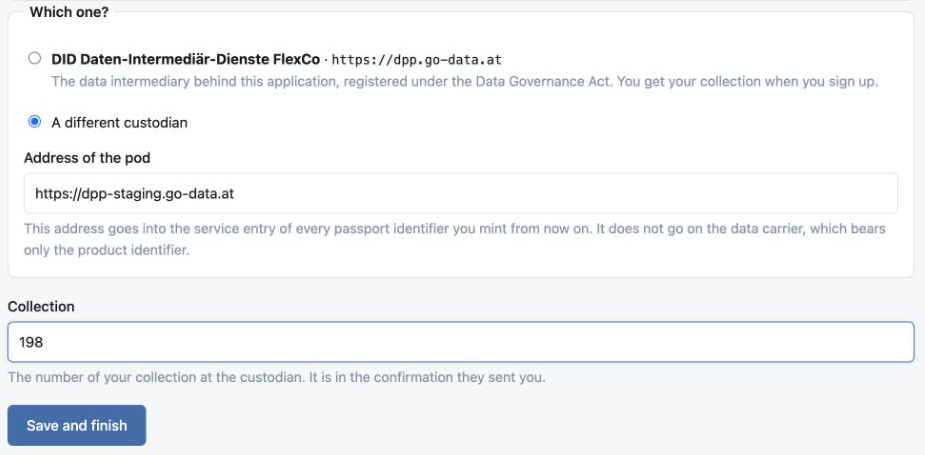
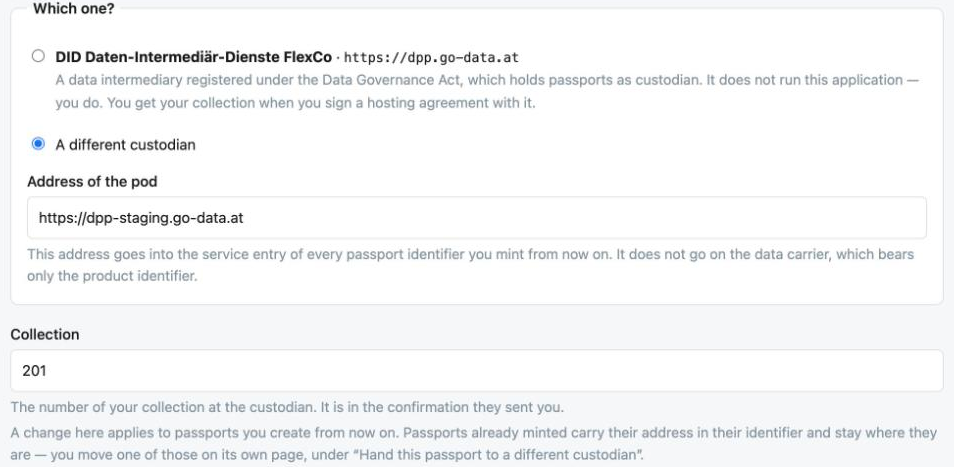
Update for DPP Manager 0.1.9 and explain why a controlled part can be unavailable

diff --git a/_articles/getting-started.md b/_articles/getting-started.md
@@ -4,7 +4,7 @@ description: From an empty computer to a published Digital Product Passport that
 section: Tools
 order: 1.5
 audience: economic operators trying the tools for the first time
-last_reviewed: 2026-10-18
+last_reviewed: 2026-10-19
 image: /assets/img/getting-started-steps.svg
 image_alt: "Eight steps. Set up once: 1 Start – install the container and choose a passphrase, on your computer. 2 DPP service – enter its address, it tells you the rest. 3 Identity – a key pair of your own, write down the keys. 4 Custodian – an agreement at a data intermediary gives you a pod and a collection. Per passport: 5 Describe – fill in the form of the product type. 6 Identifier – the passport gets an identifier of its own. 7 Submit – the DPP Service stores it, the custodian keeps it. 8 Check – open the link and run the DPP Linter, in any browser."
 image_caption: "Four steps to set up, four steps for every passport."
@@ -55,11 +55,12 @@ The custodian is optional. Without one, the DPP Service keeps the passport itsel
 
 ## 1. Start the DPP Manager
 
-The DPP Manager runs as a container. With Docker Desktop, Podman Desktop or Rancher Desktop installed, three lines start it:
+The DPP Manager runs as a container. With Docker Desktop, Podman Desktop or Rancher Desktop installed, four lines start it – `docker compose pull` first, so that a computer that still holds an older image starts the current one:
 
 ```sh
 mkdir -p ~/Documents/dpp-manager && cd ~/Documents/dpp-manager
 curl -fsSLO https://raw.githubusercontent.com/OwnYourData/dpp-manager-public/main/docker-compose.yml
+docker compose pull
 docker compose up -d
 ```
 
@@ -71,7 +72,9 @@ Open `http://localhost:3000` and choose a passphrase. It encrypts the one file i
 docker compose pull && docker compose up -d --force-recreate
 ```
 
-Use version 0.1.8 or later; the version is shown at the bottom of every page. Up to version 0.1.6, the DPP Manager wrote the passphrase in plain text into the container's log; recreating the container removes that old log. If you have passed a log of the container on to anyone, change the passphrase under *Data file* – see the [changelog](https://github.com/OwnYourData/dpp-manager-public/blob/main/CHANGELOG.md#017). Since 0.1.8, a form is no longer lost when the data file locks itself (see step 5).
+Use version 0.1.9 or later; the version is shown at the bottom of every page. Up to version 0.1.6, the DPP Manager wrote the passphrase in plain text into the container's log; recreating the container removes that old log. If you have passed a log of the container on to anyone, change the passphrase under *Data file* – see the [changelog](https://github.com/OwnYourData/dpp-manager-public/blob/main/CHANGELOG.md#017). Since 0.1.8, a form is no longer lost when the data file locks itself (see step 5).
+
+**A second DPP Manager** on the same computer goes into a folder of its own, with its own port and container name. Put both into a file `.env` next to `docker-compose.yml`, for example `DPP_MANAGER_PORT=3001` and `DPP_MANAGER_CONTAINER=dpp-manager-2`; the container name can be set this way from version 0.1.9 of `docker-compose.yml`.
 
 ## 2. Choose the DPP service
 
@@ -85,9 +88,9 @@ The DPP Manager only asks the service whether it is there and under which identi
 
 Next comes your identity as an economic operator: a key pair, created on your computer. The name you give it is only for your own overview.
 
-{% include figure.html src="/assets/img/screens/getting-started-identity.png" alt="Screenshot of setup step 2, 'Your identity': an explanation that the private half of the key pair stays on this machine, a warning 'This is the one thing that cannot be replaced', and the field 'Name for this identity' filled with Example Lighting GmbH." caption="The private key stays on your computer; only the public half is published, so that others can check your signatures." screenshot=true width="970" height="840" %}
+{% include figure.html src="/assets/img/screens/getting-started-identity.png" alt="Screenshot of setup step 2, 'Your identity': an explanation that the private half of the key pair stays on this machine and that the keys stay visible until you confirm that they are stored, a warning 'This is the one thing that cannot be replaced', and the field 'Name for this identity' filled with Example Lighting GmbH." caption="The private key stays on your computer; only the public half is published, so that others can check your signatures." screenshot=true width="970" height="840" %}
 
-**Create an identity** publishes the public half as a `did:oyd` identifier. The next screen shows two keys – a document key and a revocation key. Press **Write the key file**, keep a copy somewhere safe and confirm that you have stored them; after that, they are not shown again: whoever holds these keys speaks for your company, and without them your passports can no longer be changed.
+**Create an identity** publishes the public half as a `did:oyd` identifier. The next screen shows two keys – a document key and a revocation key. They stay visible until you confirm that you have stored them, and after that they are not shown again, not even when you open that step once more. Press **Write the key file** and keep a copy somewhere safe: whoever holds these keys speaks for your company, and without them your passports can no longer be changed.
 
 ## 4. Get a custodian
 
@@ -101,22 +104,22 @@ A custodian keeps your passports and serves them at the link on the product. The
 
 Press **Save**, then **Sign**. Under **My Contracts**, the details of the new agreement show the two values the DPP Manager needs: the address of the storage service and the number of your collection. Neither is secret.
 
-{% include figure.html src="/assets/img/screens/getting-started-contract-values.png" alt="Screenshot of the contract details at the intermediary: base address of the storage service https://dpp-staging.go-data.at, storage identifier 198, access for third parties: no access for third parties, and the note to enter these two values in the DPP Manager." caption="The two values from the agreement. This example used the intermediary's test environment, hence 'dpp-staging'." screenshot=true width="1117" height="282" %}
+{% include figure.html src="/assets/img/screens/getting-started-contract-values.png" alt="Screenshot of the contract details at the intermediary: base address of the storage service https://dpp-staging.go-data.at, storage identifier 201, access for third parties: no access for third parties, and the note to enter these two values in the DPP Manager." caption="The two values from the agreement. This example used the intermediary's test environment, hence 'dpp-staging'." screenshot=true width="1100" height="196" %}
 
 Back in the DPP Manager, enter both values in the last setup step. If the address differs from the one shown next to DID FlexCo, choose **A different custodian** and type it in. Then **Save and finish**.
 
-{% include figure.html src="/assets/img/screens/getting-started-custodian.png" alt="Screenshot of setup step 4, 'Where the passport lives': 'A different custodian' selected, the address of the pod https://dpp-staging.go-data.at, the collection 198, and the button 'Save and finish'." caption="Address and collection from the agreement – the setup is complete." screenshot=true width="925" height="455" %}
+{% include figure.html src="/assets/img/screens/getting-started-custodian.png" alt="Screenshot of setup step 4, 'Where the passport lives', section 'Which one?': the preset DID Daten-Intermediär-Dienste FlexCo with https://dpp.go-data.at, and 'A different custodian' selected with the address of the pod https://dpp-staging.go-data.at; below, the collection 201." caption="Address and collection from the agreement – the setup is complete." screenshot=true width="954" height="467" %}
 
 ## 5. Describe the product
 
 Under **Passports**, start a new passport of a product type – here *LED lamp*. The top of the form is the same for every product:
 
-- **Product identifier** – the link printed on the product, usually a GS1 Digital Link. Our example uses `https://dpp-staging.go-data.at/01/09520123000011/21/KB-0001`: GTIN `09520123000011` from GS1's range for examples, serial number `KB-0001`. A real product would carry a link on your own domain, pointed at the custodian.
+- **Product identifier** – the link printed on the product, usually a GS1 Digital Link. Our example uses `https://dpp-staging.go-data.at/01/09520123000028/21/KB-0002`: GTIN `09520123000028` from GS1's range for examples, serial number `KB-0002`. A real product would carry a link on your own domain, pointed at the custodian.
 - **This passport describes** – a model, a batch or one item. For a Digital Link it is read from the path: `/21/` means one item.
 
 Below follows the form of the product type, in tabs. Required fields are marked; a draft is saved even when it is incomplete.
 
-{% include figure.html src="/assets/img/screens/getting-started-form.png" alt="Screenshot of the LED lamp form with the tabs Product, Light and power, Lifetime, Conformity and substances, and Environment. The Product tab shows manufacturer Example Lighting GmbH, product designation LED bulb E27 806 lm, model EL-E27-806, serial number KB-0001, date of manufacture 2026-09-15 and country of origin AT. Above: '21 fields filled in' and the button 'Load file'." caption="The form comes from the product type. If the data already exists elsewhere, Load file reads it from a JSON file – in the browser, without uploading it." screenshot=true width="960" height="485" %}
+{% include figure.html src="/assets/img/screens/getting-started-form.png" alt="Screenshot of the LED lamp form with the tabs Product, Light and power, Lifetime, Conformity and substances, and Environment. The Product tab shows manufacturer Example Lighting GmbH, product designation LED bulb E27 806 lm, model EL-E27-806, serial number KB-0002, date of manufacture 2026-10-01 and country of origin AT. Above: '21 fields filled in' and the button 'Load file'." caption="The form comes from the product type. If the data already exists elsewhere, Load file reads it from a JSON file – in the browser, without uploading it." screenshot=true width="954" height="450" %}
 
 **Locked in between?** When the DPP Manager sits unused for longer than the time set under *Settings* – 15 minutes unless you change it – the data file locks itself. What you send after that is not carried out, and the unlock screen says so. Once you have entered your passphrase, you are back on the form with what you had typed, except passphrases, keys and files; press **Save** again. The event log records the lock together with the action that was not carried out.
 
@@ -138,11 +141,11 @@ The next screen shows the passport's two keys, just like your identity's. Write 
 
 All times in the DPP Manager are shown in UTC and labelled so – the same time base as the event log, the DPP Service and the custodian.
 
-{% include figure.html src="/assets/img/screens/getting-started-submitted.png" alt="Screenshot of the passport page after submission: the passport identifier did:oyd:zQmVWGg…, where it points, and the section Submitting with the time, the service https://dpp-service.ownyourdata.eu and the note 'The service holds this version'." caption="Submitted. The DPP Manager keeps what the service accepted, so you can look it up even when the service is not reachable." screenshot=true width="960" height="390" %}
+{% include figure.html src="/assets/img/screens/getting-started-submitted.png" alt="Screenshot of the passport page after submission: the section 'The passport identifier' with the identifier did:oyd:zQmNnP7…, created 2026-10-18 09:54 UTC, and where it points; then the section Submitting: submitted 2026-10-18 09:55 UTC to https://dpp-service.ownyourdata.eu, no period set, and the note 'The service holds this version'." caption="Submitted. The DPP Manager keeps what the service accepted, so you can look it up even when the service is not reachable. Every time is in UTC." screenshot=true width="954" height="350" %}
 
 With a custodian set, the DPP Manager signs a **mandate** at the same time: this service may keep this one passport in this one collection, for 90 days. A fresh mandate is one click. A hash of the content is also recorded in the passport identifier's log – the [content binding]({{ '/public-availability/' | relative_url }}) that lets any reader check that nothing was changed.
 
-{% include figure.html src="/assets/img/screens/getting-started-custody.png" alt="Screenshot of the sections 'Who holds this passport' – custodian https://dpp-staging.go-data.at, collection 198, mandate signed and valid for 90 days, covering create, update and delete, with buttons 'Sign a fresh mandate' and 'Compare with the service' – and 'Content binding' with the attested hash and the note 'The payload is attested'." caption="Who keeps the passport, under which mandate – and the hash that binds its content." screenshot=true width="960" height="450" %}
+{% include figure.html src="/assets/img/screens/getting-started-custody.png" alt="Screenshot of the sections 'Who holds this passport' – custodian https://dpp-staging.go-data.at, collection 201, mandate signed on 2026-10-18 09:55 UTC and valid until 2027-01-16 09:55 UTC, covering create, update and delete, with buttons 'Sign a fresh mandate' and 'Compare with the service' – and 'Content binding' with the attested hash and the note 'The payload is attested'." caption="Who keeps the passport, under which mandate – and the hash that binds its content." screenshot=true width="954" height="438" %}
 
 ## 8. Open and check it
 
@@ -152,7 +155,7 @@ The passport is now live. Open the product identifier in any browser – a phone
 
 Then paste the same link into the [DPP Linter](https://dpplint.ownyourdata.eu/). It fetches the passport the way any reader does and checks it against the criteria derived from EN 18219, EN 18223 and the regulations.
 
-{% include figure.html src="/assets/img/screens/getting-started-linter.png" alt="Screenshot of the DPP Linter for the example product identifier: '6 of 6 automated checks passed (0 failed, 1 with warnings, 0 skipped)', proposed criteria 10 of 10 passed, retrieved with HTTP 200 as JSON. Warnings for DPP-ID-016, no linked verifiable credentials for the operator's identity, and DPP-SEC-013, content attested with the key of the passport identifier rather than the operator's; DPP-CAR-002, DPP-CFG-005, DPP-DAT-003 and DPP-DAT-014 passed." caption="All automated checks passed. Both warnings concern the operator's identity, not the content of the passport." screenshot=true width="940" height="810" %}
+{% include figure.html src="/assets/img/screens/getting-started-linter.png" alt="Screenshot of the DPP Linter for an earlier example passport of the same kind, KB-0001: '6 of 6 automated checks passed (0 failed, 1 with warnings, 0 skipped)', proposed criteria 10 of 10 passed, retrieved with HTTP 200 as JSON. Warnings for DPP-ID-016, no linked verifiable credentials for the operator's identity, and DPP-SEC-013, content attested with the key of the passport identifier rather than the operator's; DPP-CAR-002, DPP-CFG-005, DPP-DAT-003 and DPP-DAT-014 passed." caption="All automated checks passed. Both warnings concern the operator's identity, not the content of the passport." screenshot=true width="940" height="810" %}
 
 The warnings are expected for now. **DPP-ID-016:** the operator's identity is self-issued and carries no credentials from a trusted body yet – one of the points [still open]({{ '/reference-architecture/' | relative_url }}) in the CIRPASS-2 comparison. **DPP-SEC-013**, a proposed criterion: the content is attested with the key of the passport identifier, which is not yet linked to the operator's identity.
 

diff --git a/_articles/role-based-access.md b/_articles/role-based-access.md
@@ -4,7 +4,7 @@ description: Not every field of a passport is for everyone. How the DPP Service 
 section: Concepts
 order: 2
 audience: economic operators, DPP service providers, developers
-last_reviewed: 2026-10-16
+last_reviewed: 2026-10-19
 image: /assets/img/access-classes.svg
 image_alt: "Matrix of readers and access classes. Anyone sees the public part; a repair shop or recycler with an access grant also sees the legitimate-interest part; authorities and the owning economic operator see the whole passport."
 image_caption: "Three access classes, using a battery passport as the example. Whoever may read a class also reads every class to its left."
@@ -100,6 +100,8 @@ A passport with a policy is held as **two cards** at its custodian:
 - the **public card** with the header and the public attributes, served to anyone – including through the link on the product itself;
 - the **controlled card** with everything else, which only the DPP Service reads, under its own read grant.
 
+For that read grant, the custodian enters the DPP Service as **reader** of the operator's collection. A passport with attributes that are not public is accepted only for a collection where this reader is entered. Otherwise the write is refused with `400` and the message code `readerNotEntered`, and nothing is written at the service or at the custodian. The refusal names the custodian, the collection and the reader to enter; the DPP Manager shows them on the passport page, with the reader ready to copy and pass on to the custodian.
+
 The public card carries a salted hash of the controlled part. Before the service hands out anything controlled, it checks the hash. If the two do not match, it hands out nothing controlled at all.
 
 ### Step 2: grant access
@@ -135,9 +137,25 @@ The answer is always an ordinary EN 18223 passport – with more or fewer data e
 
 Earlier versions of a passport, read through the DPP Service, are filtered by today's policy: an attribute that is controlled now is not handed out from a version in which it was still public.
 
+### When the controlled part cannot be read
+
+Sometimes a reader's access rights reach further than what the service can read at the custodian. The reader then gets what a reader without access rights gets – the public part, with `200` – and a response header says why:
+
+- **The custodian has not entered the DPP Service as reader** of the passport's collection. The reader gets the public part; the reason is `readerNotEntered`.
+- **An earlier version is read at a custodian that does not serve earlier versions of the controlled card.** The reader gets the public part of that version; the reason is `versionsNotServed`.
+
+The header then reads, for the two cases:
+
+```http
+X-DPP-Controlled-Part: unavailable;reason=readerNotEntered
+X-DPP-Controlled-Part: unavailable;reason=versionsNotServed
+```
+
+The header that names the applied classes, `X-DPP-Access-Roles`, is then left out, because nothing beyond the public part was applied. A single data element of the controlled part is answered with `404` and the same header. Any other failure at the custodian is answered with `502`. The economic operator settles the first case with the custodian, which enters the reader; nothing changes in the passport.
+
 ## Every access leaves a trace
 
-The service keeps an **access log**. It records every read of controlled data, every refused attempt by a reader with a valid token but no valid grant, every grant registered and every revocation. It never records content or tokens.
+The service keeps an **access log**. It records every read of controlled data, every refused attempt by a reader with a valid token but no valid grant, every grant registered and every revocation. A read whose controlled part could not be read is recorded with its reason, `readerNotEntered` or `versionsNotServed`. The log never records content or tokens.
 
 - The **owner** of a passport sees every entry for its passports.
 - A **reader** sees its own reads and refusals.

diff --git a/_articles/dpp-service.md b/_articles/dpp-service.md
@@ -4,7 +4,7 @@ description: The open-source service that stores, versions and serves Digital Pr
 section: Tools
 order: 0
 audience: DPP service providers, developers, economic operators
-last_reviewed: 2026-10-16
+last_reviewed: 2026-10-19
 image: /assets/img/dpp-service-overview.svg
 image_alt: "Diagram: economic operators write to the DPP Service with requests signed by their own did:oyd; readers read the public part without an account, or more with a grant. The service checks signature and owner, binds content, applies access policies and grants, keeps an access log and versions, and stores passports in its own database or at a custodian under a mandate."
 image_caption: "What the DPP Service does between the operator who writes and the readers who read."
@@ -61,7 +61,7 @@ The DPP Service of OwnYourData is one complete, open implementation of it. It is
 |---|---|
 | **Lifecycle** | create, read by passport or product identifier, update (as a JSON merge patch), delete, read the version valid at a given date, look up passport identifiers for a list of products |
 | **Fine-granular** | read or update a single data element or collection |
-| **Registry** | register a passport with the EU registry |
+| **Registry** | register a passport with the EU registry – not connected yet: the service answers `502` with the message code `registryNotConnected` and registers nothing |
 | **Beyond the standard** | change of custodian, the mandate for the custodian, access policies, access grants, the access log, and a discovery document at `/.well-known/dpp-service` |
 
 The whole contract is published as an OpenAPI description and rendered at [/api-docs](/api-docs/index.html).
@@ -76,7 +76,7 @@ The service resolves the DID, checks the signature, and remembers who created ea
 
 **Content binding.** After a write, the hash of the published content is recorded in the passport's own DID document. Anyone can check later that what they receive is what the operator published – see [Public availability]({{ '/public-availability/' | relative_url }}).
 
-**Role-based access.** The operator can classify each attribute as public, for readers with a legitimate interest, or for authorities only. The service then gives each reader exactly the parts it may read, and logs every read of controlled data – see [Role-based access to passport data]({{ '/role-based-access/' | relative_url }}).
+**Role-based access.** The operator can classify each attribute as public, for readers with a legitimate interest, or for authorities only. The service then gives each reader exactly the parts it may read, and logs every read of controlled data. If the controlled part cannot be read at the custodian, a reader with access rights still gets the public part, and the response header `X-DPP-Controlled-Part` says why – see [Role-based access to passport data]({{ '/role-based-access/' | relative_url }}).
 
 **Versions and end of life.** Every change is kept: the version valid at any past date can be read back. When a passport is ended, the service stops serving it and keeps the final state as history.
 

diff --git a/_articles/glossary.md b/_articles/glossary.md
@@ -4,7 +4,7 @@ description: The terms that come up again and again around Digital Product Passp
 section: Basics
 order: 5
 audience: everyone working with Digital Product Passports
-last_reviewed: 2026-10-17
+last_reviewed: 2026-10-19
 image: /assets/img/glossary-map.svg
 image_alt: "A product, as model, batch or item, carries a data carrier such as a QR code. It holds the unique product identifier, a web link, which leads to the passport with its DPP identifier, header and data elements, kept by a custodian. The economic operator writes through the lifecycle API of a DPP service. The EU DPP registry records the identifiers and where each passport is kept. Readers get the public part, and more according to access class and access grant."
 image_caption: "How the main terms fit together."
@@ -65,7 +65,7 @@ Content binding
 : Recording a hash of a passport's content in the signed log of its DPP identifier, so that anyone can check that what they receive is what the operator published. See [Public availability]({{ '/public-availability/' | relative_url }}).
 
 Controlled part
-: The part of a passport with every attribute that is not public. It is handed out only to readers whose access class allows it. Its counterpart is the *public part*.
+: The part of a passport with every attribute that is not public. It is handed out only to readers whose access class allows it. If it cannot be read at the custodian, the DPP Service returns the public part and says why in the response header `X-DPP-Controlled-Part`. Its counterpart is the *public part*.
 
 Criteria catalogue
 : The open repository *dpp-criteria*, which turns legal and standard requirements into checkable criteria. See [The DPP criteria catalogue]({{ '/dpp-criteria/' | relative_url }}).

diff --git a/_articles/public-availability.md b/_articles/public-availability.md
@@ -4,7 +4,7 @@ description: How anyone gets from the code on a product to its passport – with
 section: Concepts
 order: 1
 audience: economic operators, DPP service providers, developers
-last_reviewed: 2026-10-16
+last_reviewed: 2026-10-19
 image: /assets/img/public-access-paths.svg
 image_alt: "Diagram: three ways to the same passport – scanning the product, asking a DPP service, or resolving the passport identifier – all lead to the custodian, which returns a readable page to a browser and JSON to software. The passport's DID document carries a hash of the JSON for checking."
 image_caption: "Three ways in, one passport. Which form comes back depends only on what the client asks for."
@@ -119,7 +119,7 @@ Three ways to do the check:
 
 ## Public means the public part
 
-What is public is decided per attribute. A passport whose operator has marked some attributes for readers with a legitimate interest or for authorities is served in two parts: the public part on the link on the product, the rest only through the DPP Service to readers who hold a grant. How that works is described in [Role-based access to passport data]({{ '/role-based-access/' | relative_url }}).
+What is public is decided per attribute. A passport whose operator has marked some attributes for readers with a legitimate interest or for authorities is served in two parts: the public part on the link on the product, the rest only through the DPP Service to readers who hold a grant. If that rest cannot be read at the custodian, such a reader still gets the public part, with a response header that says why. How that works is described in [Role-based access to passport data]({{ '/role-based-access/' | relative_url }}).
 
 ## What is still open
 
